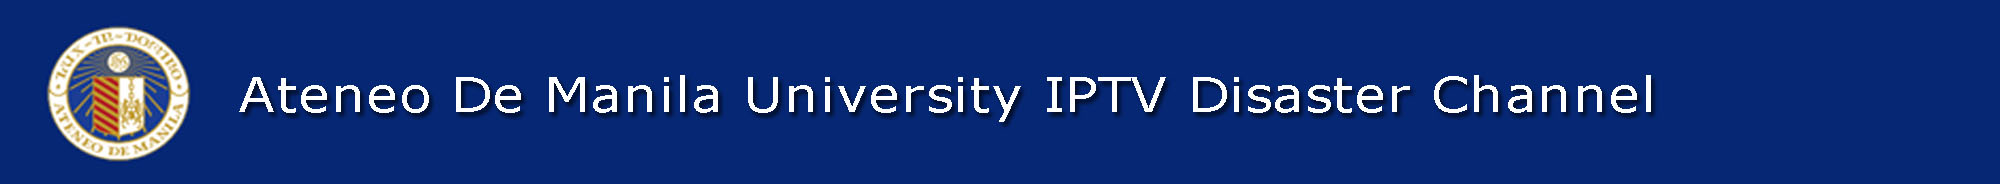
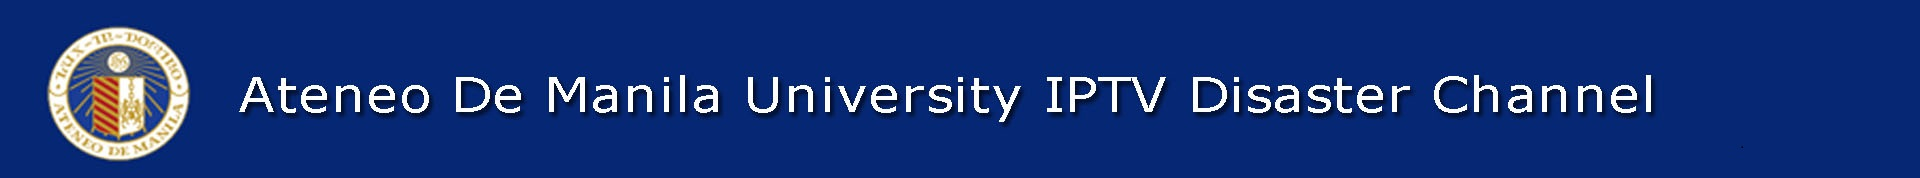
modified on 18 July 2013

Changed region(s): [[0.0, 0.1404, 0.875, 0.8989]]

diff --git a/lime/samples/demosites/ateneo/disaster_v4/homepage-kawamori.html b/lime/samples/demosites/ateneo/disaster_v4/homepage-kawamori.html
@@ -388,8 +388,8 @@ function launchURL(u)//launchURL
 
 	<!-- Use graphics for title, rather than text -->	
 	   
-		<object id="s30" style="left:150px; top:0px; width:200px; height:900px;" data="gold.jpg" type="image/jpeg"/>
-		<object id="s31" style="left:0px; top:0px; width:1500px; height:900px;" data="Header.jpg" type="image/jpeg"/>
+		<object id="s30" style="left:150px; top:0px; width:200px; height:540px;" data="gold.jpg" type="image/jpeg"/>
+		<object id="s31" style="left:0px; top:0px; width:960px; height:540px;" data="Header.jpg" type="image/jpeg"/>
 	    <!-- <object id="s32" style="left:163px; top:100px; width:1500px; height:900px;" data="home.jpg" type="image/jpeg"/> -->
 						
 	
@@ -401,10 +401,10 @@ function launchURL(u)//launchURL
 		<object id="s13" style="left:0px; top:210px; width:240px; height:40px;" data="button_blur_3.jpg" type="image/jpeg"/>
 		<object id="s23" style="left:0px; top:240px; width:240px; height:40px;" data="button_blur_4.jpg" type="image/jpeg"/>
 		<object id="s24" style="left:0px; top:270px; width:500px; height:50px;" data="button_blur_5.jpg" type="image/jpeg"/>
-		<object id="s32" style="left:180px; top:110px; width:999px; height:999px;" data="evacuation_centers.jpg" type="image/jpeg"/>
-        <object id="s33" style="left:450px; top:110px; width:999px; height:999px;" data="ros.jpg" type="image/jpeg"/>
-		 <object id="s34" style="left:180px; top:330px; width:999px; height:999px;" data="skt.jpg" type="image/jpeg"/>
-		 <object id="s35" style="left:450px; top:330px; width:999px; height:999px;" data="hri.jpg" type="image/jpeg"/>
+		<object id="s32" style="left:180px; top:110px; width:252px; height:203px;" data="evacuation_centers.jpg" type="image/jpeg"/>
+        <object id="s33" style="left:450px; top:110px; width:252px; height:203px;" data="ros.jpg" type="image/jpeg"/>
+		 <object id="s34" style="left:180px; top:330px; width:252px; height:203px;" data="skt.jpg" type="image/jpeg"/>
+		 <object id="s35" style="left:450px; top:330px; width:252px; height:203px;" data="hri.jpg" type="image/jpeg"/>
 		</div>
 
 	
